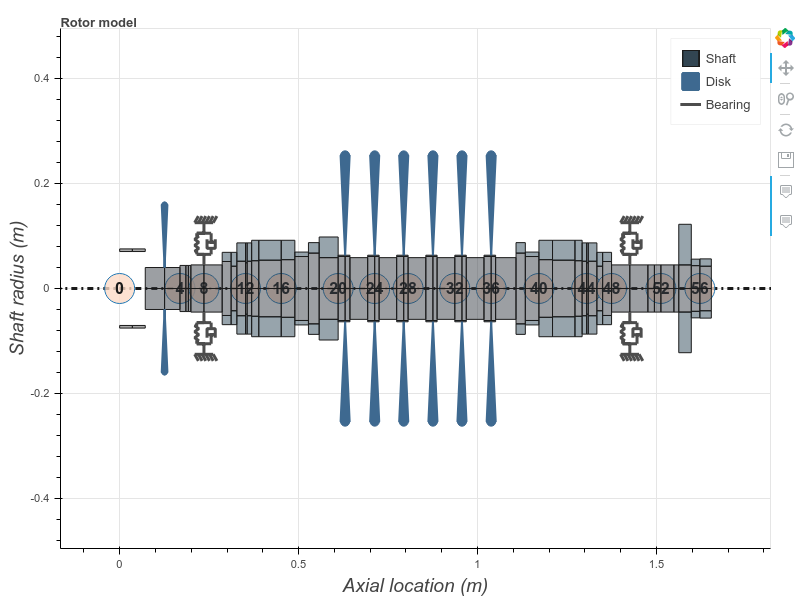
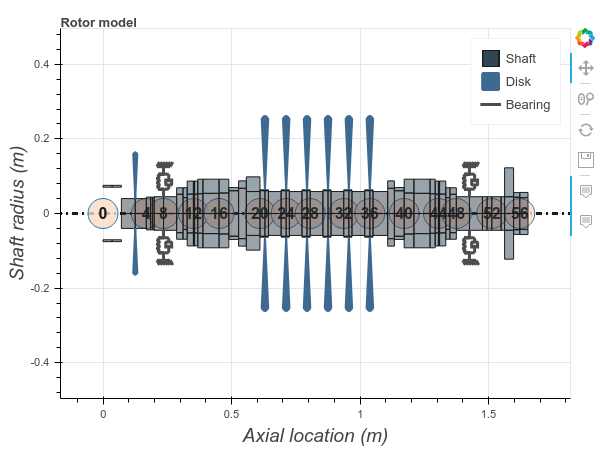
Trying to change the figure size

diff --git a/paper/paper.md b/paper/paper.md
@@ -58,7 +58,7 @@ Frequency response, Forced response, and Mode Shapes.
 As an example, Figure 1 shows a centrifugal compressor modeled with ROSS. The shaft elements are in gray, 
 the disks are in blue and the bearings are displayed as springs and dampers.
 
-<img src="rotor_plot.png" alt="Centrifugal Compressor modeled with ROSS." width="400"/>
+![Centrifugal Compressor modeled with ROSS.](rotor_plot.png)
 
 In this case we used Timoshenko beam theory to model the shaft elements as described by [@friswell2010dynamics].
 
